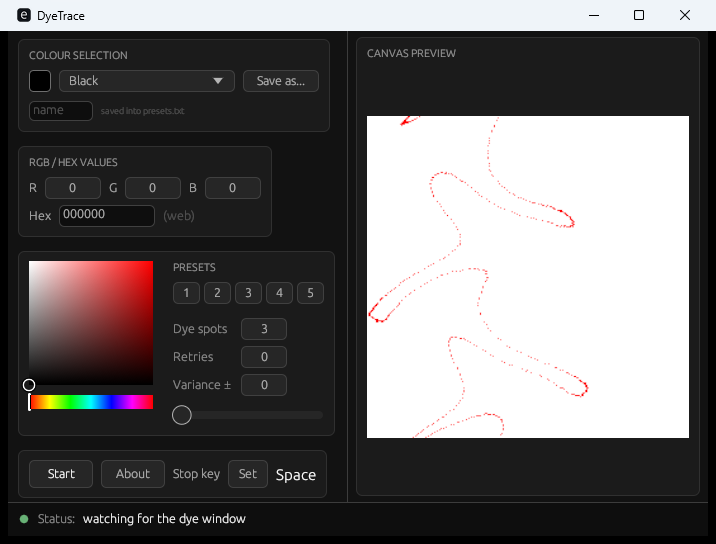
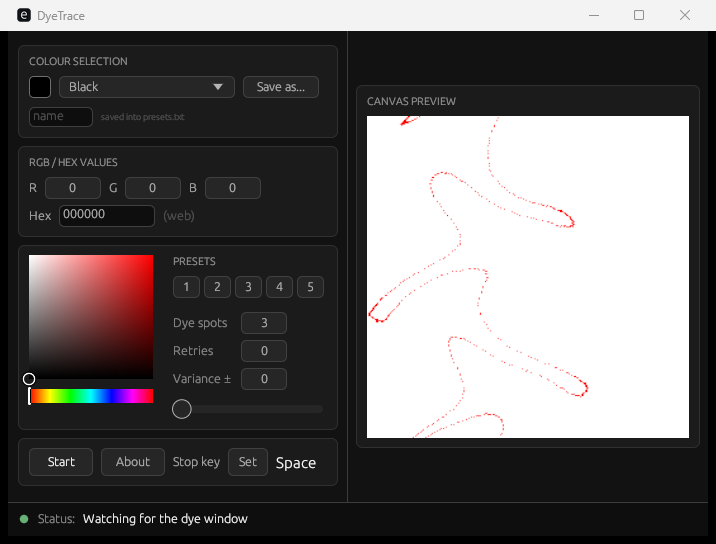
Even cards, a canvas that fills its box, and sentence case in the status
The RGB card sized itself to its contents, so the left column ended up with
cards of two widths.  Every card now takes the full width of the column, and
the stack has no spacing of its own, so the gaps between them are exactly the
gap that is asked for and no longer depend on what is inside.

The preview box hugged nothing and the square canvas floated inside a taller
box.  The box is now as tall as the picture and its heading, and it is centred
on the height it actually drew - measured from the frame and remembered for the
next frame, so it does not depend on a guess about text metrics.

Status messages start with a capital: Watching for the dye window, Starting,
Clicked ..., No match after N cycle(s), and the same for each failure line.
Only the CLI's per-step log keeps its lower-case style.

diff --git a/crates/ui/src/app.rs b/crates/ui/src/app.rs
@@ -43,16 +43,38 @@ const CARD_MARGIN: i8 = 10;
 /// The colour square, and the gap it leaves before the column beside it.
 const PICKER_SIDE: f32 = 124.0;
 const COLUMN_GAP: f32 = 12.0;
+/// The air between one card and the next.
+const CARD_GAP: f32 = 8.0;
+/// The line a card's heading takes, so a box can be measured around it.
+const HEADING_ROOM: f32 = 26.0;
 
 /// Run `add` inside a card, and hand back whatever it returned.
+///
+/// Every card is as wide as the column it sits in, whatever is inside it, so the
+/// stack reads as one block with even edges.
 fn card<R>(ui: &mut egui::Ui, add: impl FnOnce(&mut egui::Ui) -> R) -> R {
+    card_frame(ui, add).inner
+}
+
+/// The same, keeping the frame's response so a caller can use the rectangle it
+/// came out at.
+fn card_frame<R>(
+    ui: &mut egui::Ui,
+    add: impl FnOnce(&mut egui::Ui) -> R,
+) -> egui::InnerResponse<R> {
     egui::Frame::new()
         .fill(CARD_FILL)
         .stroke(Stroke::new(1.0_f32, CARD_EDGE))
         .corner_radius(6.0)
         .inner_margin(egui::Margin::symmetric(CARD_MARGIN, 9))
-        .show(ui, add)
-        .inner
+        .show(ui, |ui| {
+            ui.set_min_width(ui.available_width());
+            // The stack outside the cards has no spacing of its own, so the gaps
+            // between cards are the gaps that are asked for; rows inside a card
+            // get it back.
+            ui.spacing_mut().item_spacing.y = 6.0;
+            add(ui)
+        })
 }
 
 /// A group's name: small, quiet and in capitals, so the eye lands on the values
@@ -139,6 +161,9 @@ pub struct DyeTraceApp {
 
     scan: Option<Scan>,
     status: String,
+    /// How tall the preview box came out last frame, so it can be centred on its
+    /// real height instead of an estimate of it.
+    preview_box: f32,
 }
 
 impl DyeTraceApp {
@@ -178,7 +203,8 @@ impl DyeTraceApp {
             about: false,
             saved,
             scan: None,
-            status: "watching for the dye window".to_string(),
+            status: "Watching for the dye window".to_string(),
+            preview_box: 0.0,
         };
 
         app.set_colour(app.colour);
@@ -312,7 +338,10 @@ impl DyeTraceApp {
     /// Colour selection, the RGB and hex boxes, and the picker with the match
     /// settings beside it - each group in its own card.
     fn controls(&mut self, ui: &mut egui::Ui) {
-        ui.add_space(2.0);
+        // The stack has no spacing of its own, so the gaps between cards are
+        // exactly the gaps asked for - equal, whatever the cards contain.
+        ui.spacing_mut().item_spacing.y = 0.0;
+        ui.add_space(CARD_GAP);
 
         card(ui, |ui| {
             heading(ui, "Colour selection");
@@ -360,7 +389,7 @@ impl DyeTraceApp {
             });
         });
 
-        ui.add_space(8.0);
+        ui.add_space(CARD_GAP);
 
         card(ui, |ui| {
             heading(ui, "RGB / hex values");
@@ -407,7 +436,7 @@ impl DyeTraceApp {
             });
         });
 
-        ui.add_space(8.0);
+        ui.add_space(CARD_GAP);
 
         card(ui, |ui| {
             ui.horizontal(|ui| {
@@ -437,7 +466,7 @@ impl DyeTraceApp {
             });
         });
 
-        ui.add_space(8.0);
+        ui.add_space(CARD_GAP);
 
         card(ui, |ui| self.buttons(ui));
     }
@@ -548,7 +577,7 @@ impl DyeTraceApp {
         ui.add(egui::Slider::new(&mut self.variance, 0..=255).show_value(false));
     }
 
-    fn preview_panel(&mut self, ui: &mut egui::Ui) {
+    fn preview_panel(&mut self, ui: &mut egui::Ui, side: f32) {
         heading(ui, "Canvas preview");
         let snapshot = self.preview.latest();
         if let Some(snapshot) = &snapshot {
@@ -568,10 +597,7 @@ impl DyeTraceApp {
             _ => None,
         };
 
-        let available = ui.available_size();
-        let side = available.x.min(available.y).clamp(160.0, 460.0);
-        // The same air above the picture as below it, down to the status bar.
-        ui.add_space(((available.y - side) * 0.5).max(0.0));
+        let side = side.min(ui.available_width());
         let (rect, _) = ui.allocate_exact_size(Vec2::splat(side), Sense::hover());
 
         if snapshot.is_none() {
@@ -585,7 +611,7 @@ impl DyeTraceApp {
             ui.painter().text(
                 rect.center(),
                 egui::Align2::CENTER_CENTER,
-                "waiting for the dye window",
+                "Waiting for the dye window",
                 egui::FontId::proportional(12.0),
                 Color32::from_gray(130),
             );
@@ -773,10 +799,25 @@ impl eframe::App for DyeTraceApp {
                     .inner_margin(egui::Margin::symmetric(8, 6)),
             )
             .show(ctx, |ui| {
-                card(ui, |ui| {
-                    ui.set_min_size(ui.available_size());
-                    self.preview_panel(ui);
-                });
+                // The canvas is square, so the card is only as tall as the
+                // picture plus its heading: the picture fills the box instead of
+                // floating in a tall empty one.  The box is then centred on the
+                // height it actually took, measured last frame.
+                ui.spacing_mut().item_spacing.y = 0.0;
+                let space = ui.available_size();
+                let side = (space.x.min(space.y - HEADING_ROOM)
+                    - 2.0 * CARD_MARGIN as f32
+                    - 2.0)
+                    .clamp(160.0, 640.0);
+                let estimate = if self.preview_box > 0.0 {
+                    self.preview_box
+                } else {
+                    side + HEADING_ROOM + 2.0 * 9.0 + 2.0
+                };
+                ui.add_space(((space.y - estimate) * 0.5).max(0.0));
+
+                let drawn = card_frame(ui, |ui| self.preview_panel(ui, side));
+                self.preview_box = drawn.response.rect.height();
             });
 
         self.about_window(ctx);

diff --git a/crates/ui/src/worker.rs b/crates/ui/src/worker.rs
@@ -94,7 +94,7 @@ fn run_job(job: Job, capture: &Capture, messages: &Sender<Msg>, stop: &Arc<Atomi
     match job {
         Job::Auto(mut opts) => {
             opts.stop = Some(Arc::clone(stop));
-            send(Msg::Status("starting".to_string()));
+            send(Msg::Status("Starting".to_string()));
 
             // Measure the offsets first, and show them: the run arms the picker
             // anyway, so this costs one pass and the window can mark the samples
@@ -116,20 +116,20 @@ fn run_job(job: Job, capture: &Capture, messages: &Sender<Msg>, stop: &Arc<Atomi
                     ..
                 } => format!(
                     "{} ({x},{y}) - {} #{}",
-                    if clicked { "clicked" } else { "would click" },
+                    if clicked { "Clicked" } else { "Would click" },
                     cycle::found_phrase(count, samples, chosen_only),
                     hex(opts.colour)
                 ),
                 cycle::Outcome::Exhausted { cycles } => {
                     if stop.load(Ordering::Relaxed) {
-                        format!("stopped after {cycles} cycle(s)")
+                        format!("Stopped after {cycles} cycle(s)")
                     } else {
-                        format!("no match after {cycles} cycle(s)")
+                        format!("No match after {cycles} cycle(s)")
                     }
                 }
-                cycle::Outcome::NoClient => "client or gradient not found".to_string(),
+                cycle::Outcome::NoClient => "Client or gradient not found".to_string(),
                 cycle::Outcome::PointerLost { cycles } => {
-                    format!("pointer could not be placed in cycle {cycles}")
+                    format!("Pointer could not be placed in cycle {cycles}")
                 }
             }));
         }
@@ -141,11 +141,15 @@ fn run_job(job: Job, capture: &Capture, messages: &Sender<Msg>, stop: &Arc<Atomi
 #[cfg(windows)]
 fn fail_text(err: cycle::ScanFail) -> String {
     match err {
-        cycle::ScanFail::NoClient => "no client window found".to_string(),
-        cycle::ScanFail::NoGradient => "no palette - is the dye window open?".to_string(),
-        cycle::ScanFail::Pointer => "the pointer could not be placed".to_string(),
-        cycle::ScanFail::NoLegend => "the client never drew its sample squares - reopen the dye window".to_string(),
-        cycle::ScanFail::ButtonUnknown => "cannot read the dye button - leaving it alone".to_string(),
+        cycle::ScanFail::NoClient => "No client window found".to_string(),
+        cycle::ScanFail::NoGradient => "No palette - is the dye window open?".to_string(),
+        cycle::ScanFail::Pointer => "The pointer could not be placed".to_string(),
+        cycle::ScanFail::NoLegend => {
+            "The client never drew its sample squares - reopen the dye window".to_string()
+        }
+        cycle::ScanFail::ButtonUnknown => {
+            "Cannot read the dye button - leaving it alone".to_string()
+        }
     }
 }
 
